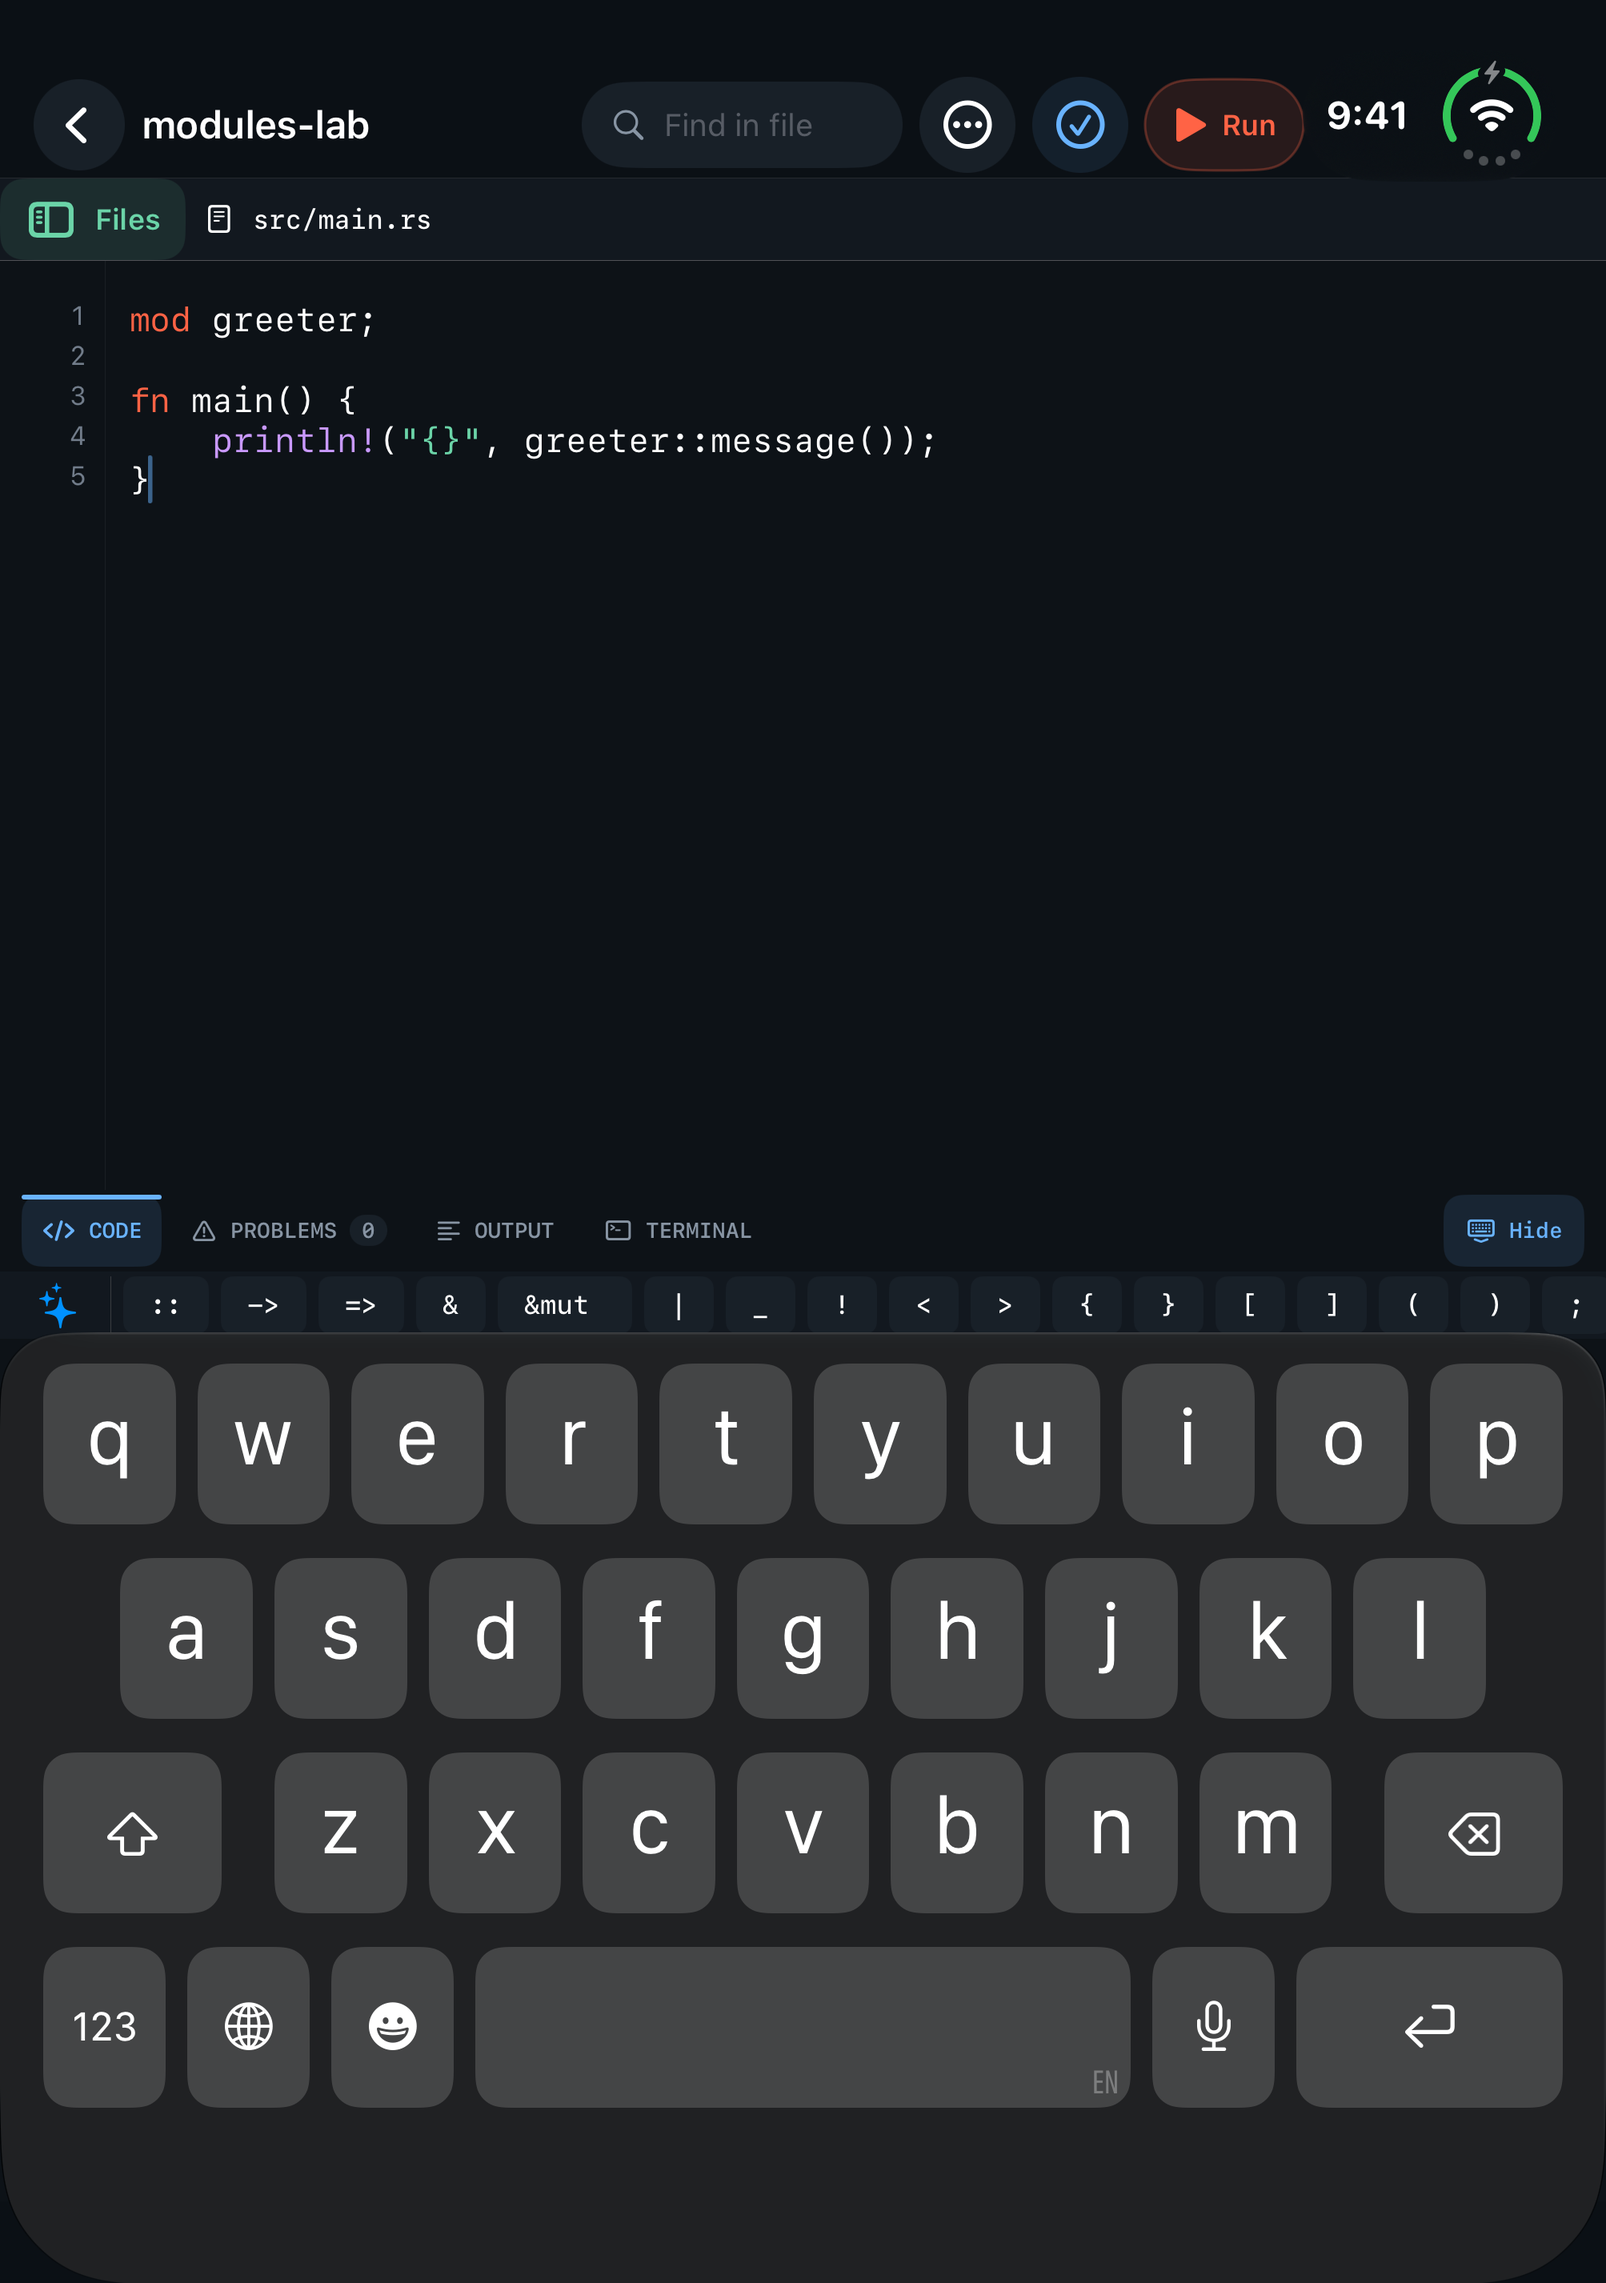
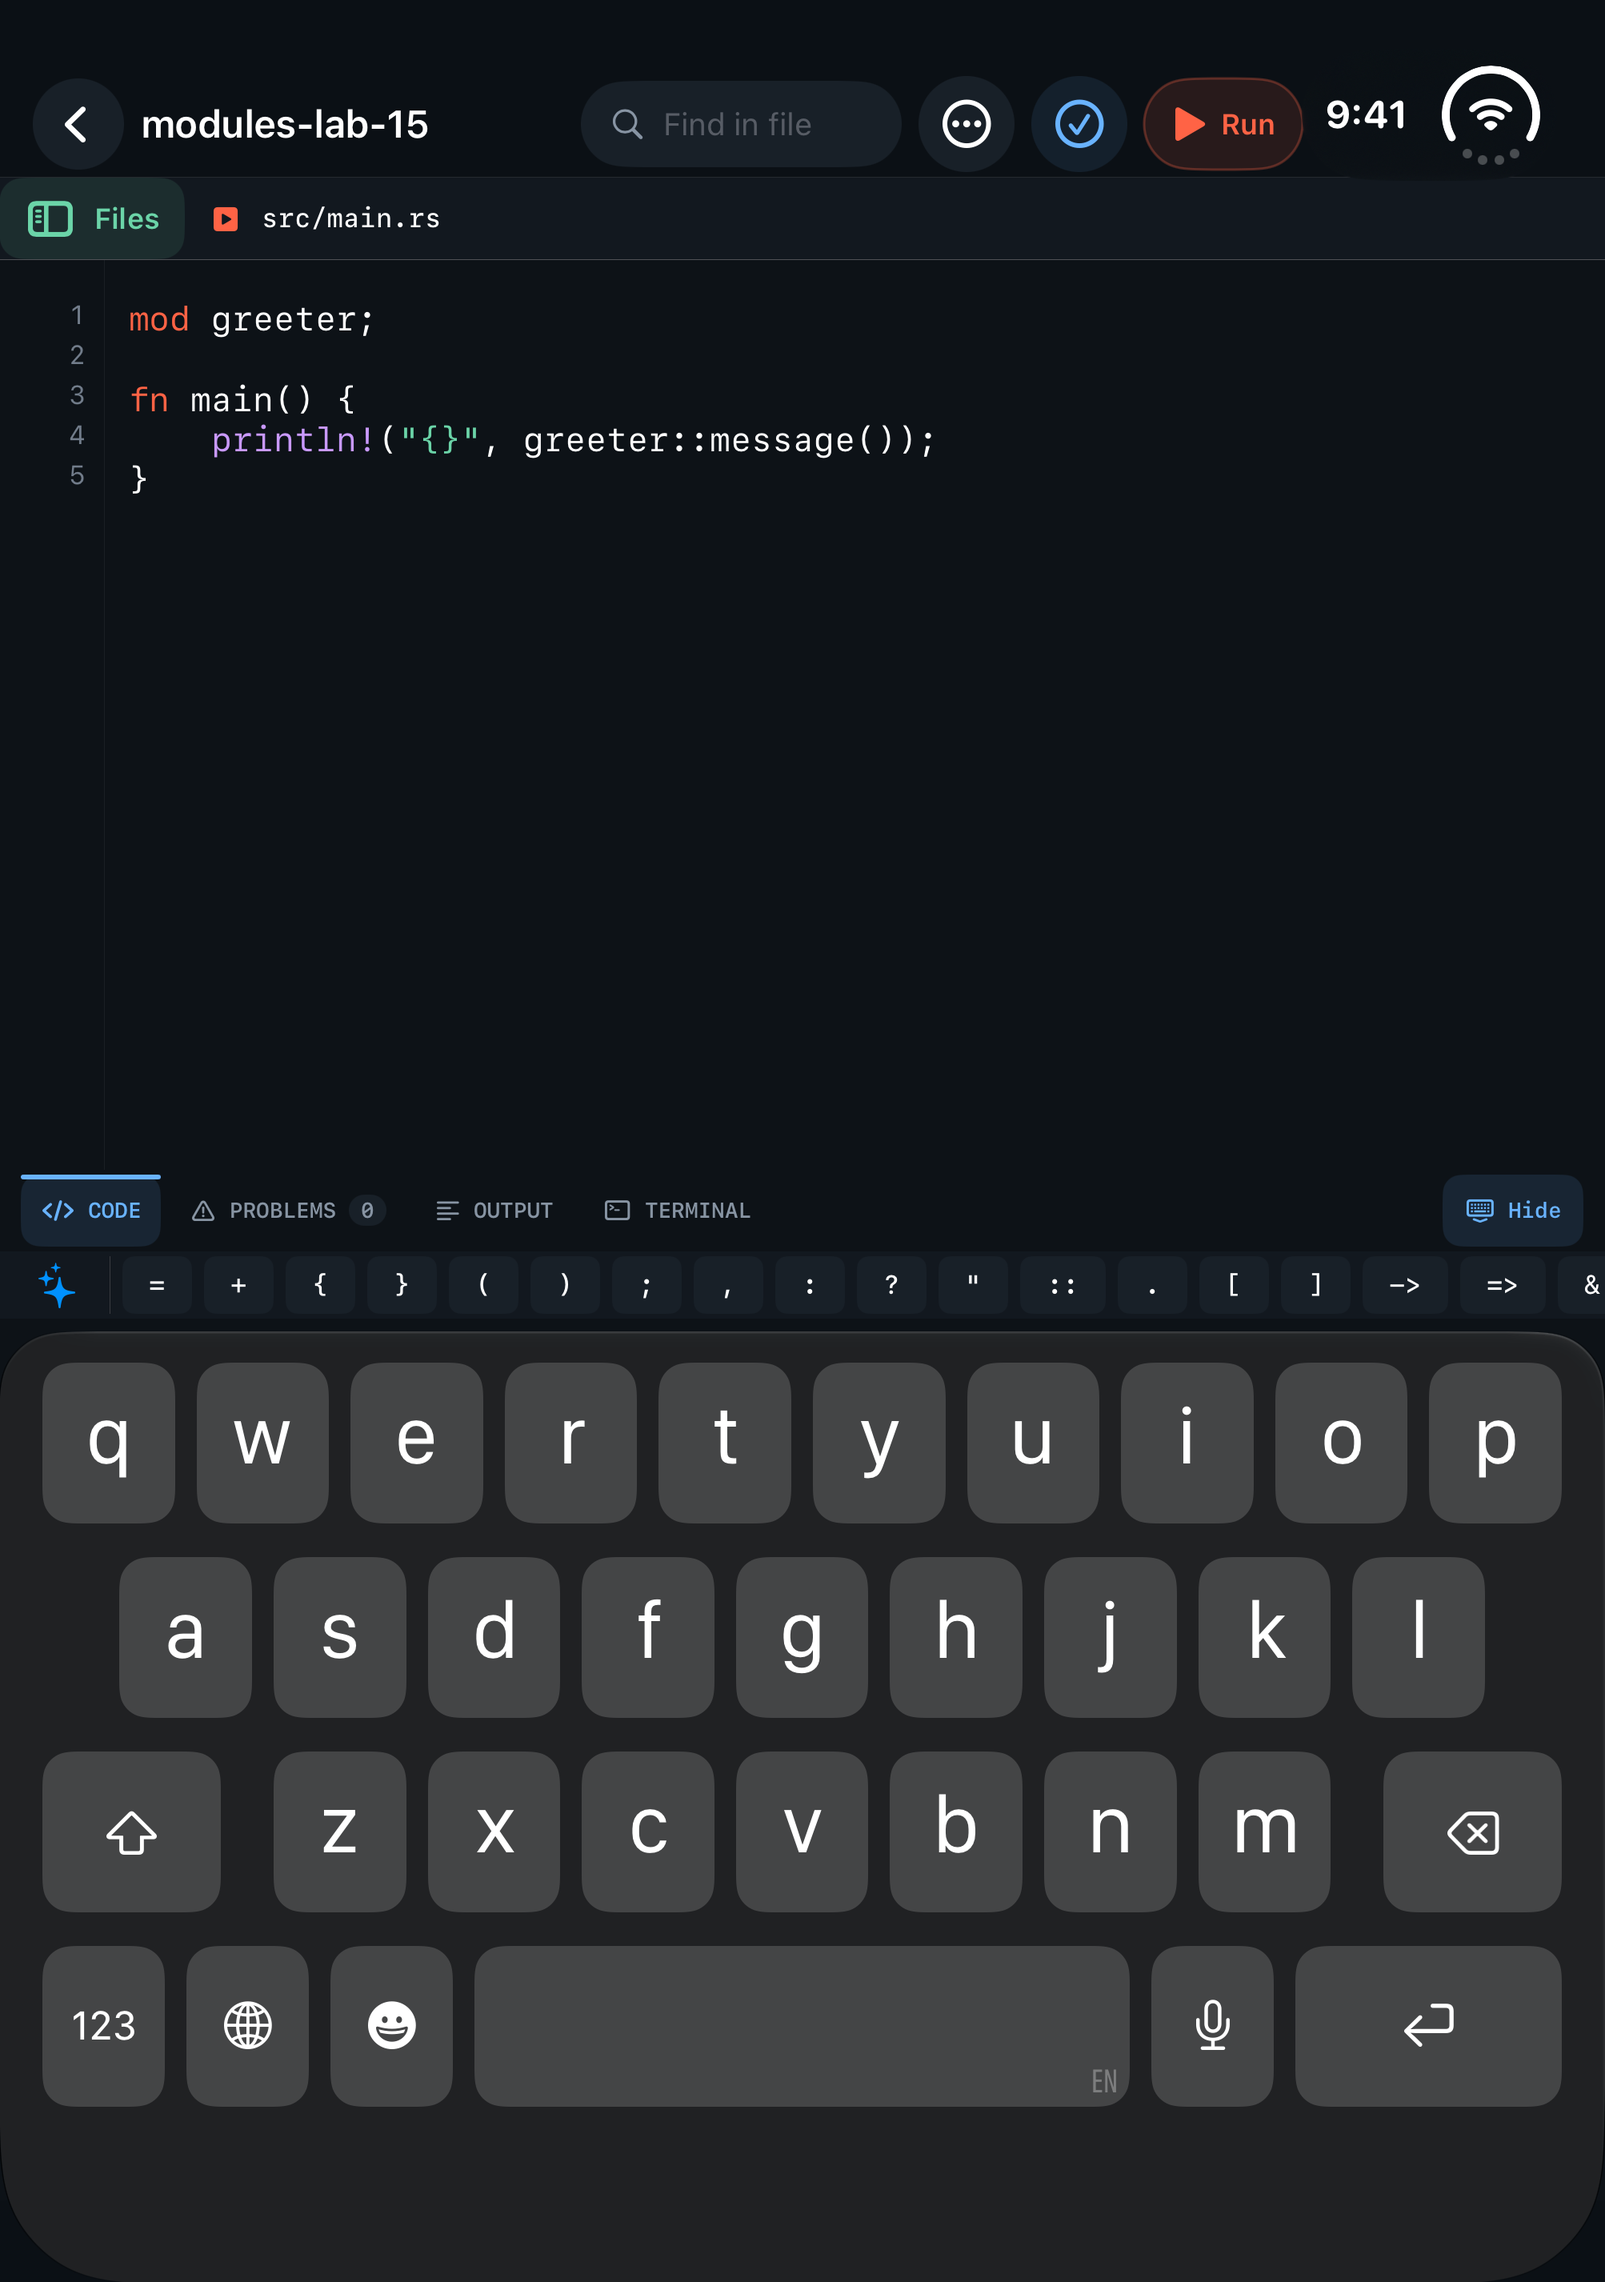
Refresh Duo product captures with verified keyboard and local Run

diff --git a/CrabrixScreenshotTests/ReleaseScreenshotTests.swift b/CrabrixScreenshotTests/ReleaseScreenshotTests.swift
@@ -115,10 +115,35 @@ final class ReleaseScreenshotTests: XCTestCase {
 
     func testDuoDisplayScreenshots() throws {
         continueAfterFailure = false
+        defer { XCUIDevice.shared.orientation = .portrait }
         for (orientation, name) in [(UIDeviceOrientation.portrait, "portrait"), (.landscapeLeft, "landscape")] {
             XCUIDevice.shared.orientation = orientation
             for tab in ["code", "output"] {
-                launch(["--crabrix-auto-dock=\(tab)"])
+                var arguments = ["--crabrix-auto-multifile", "--crabrix-auto-dock=\(tab)"]
+                if tab == "output" { arguments += ["--crabrix-auto-run", "--crabrix-auto-output"] }
+                launch(arguments)
+                if tab == "code" {
+                    let editor = app.textViews["Source code editor"]
+                    XCTAssertTrue(editor.waitForExistence(timeout: 15))
+                    editor.tap()
+                    XCTAssertTrue(app.keyboards.firstMatch.waitForExistence(timeout: 15))
+                    let typingTip = app.buttons["Continue"]
+                    if typingTip.waitForExistence(timeout: 2) { typingTip.tap() }
+                    // Tap the actual software keyboard, rather than injecting
+                    // text through the hardware-keyboard automation path.
+                    let space = app.keyboards.keys["space"]
+                    XCTAssertTrue(space.waitForExistence(timeout: 10))
+                    space.tap()
+                    Thread.sleep(forTimeInterval: 1)
+                } else {
+                    let output = app.staticTexts.containing(NSPredicate(
+                        format: "label CONTAINS %@", "hello from two Rust files"
+                    )).firstMatch
+                    XCTAssertTrue(output.waitForExistence(timeout: 120), "Capture completed local Run output, not an empty panel")
+                    let celebration = app.buttons["Nice"]
+                    if celebration.waitForExistence(timeout: 2) { celebration.tap() }
+                    XCTAssertFalse(celebration.exists, "Do not publish a celebration-covered output frame")
+                }
                 let application = XCTAttachment(screenshot: app.screenshot())
                 application.name = "duo-\(name)-\(tab)-application"
                 application.lifetime = .keepAlways

diff --git a/site/app/guide/page.tsx b/site/app/guide/page.tsx
@@ -265,7 +265,7 @@ export default function GuidePage() {
       <section id="devices"><h2>8. Work on iPhone, iPad and Duo</h2>
         <p>On iPhone, Files opens the project navigator while the editor stays focused on the selected source. On iPad, the wider workspace can show the file sidebar alongside the editor and in-file search. Search finds text within the open file; it does not change which project is compiled.</p>
         <p>Duo adapts the workspace to the fold and posture. The compact header includes the project name and search. Code, Problems, Output and Terminal share the established tab region, with editor helper keys directly above the keyboard. Use the keyboard-dismiss control in the tab strip when it is available for that posture.</p>
-        <div className="guide-screenshots"><Screenshot name="duo-laptop" alt="Duo Rust workspace with search, code tabs, helper keys and keyboard" caption="Earlier Duo qualification capture: project name and search at the top; code tabs, helpers and keyboard in the fold-aware workspace." width={2007} height={2853} /><Screenshot name="ipad-build" alt="iPad Crabrix workspace with file navigation and in-file search" caption="iPad: a wider workspace with navigation and search above the code." width={2064} height={2752} /></div>
+        <div className="guide-screenshots"><Screenshot name="duo-laptop" alt="Duo Rust workspace with search, code tabs, helper keys and keyboard" caption="5 November · Duo Simulator, Crabrix 1.1.5: project name and search at the top; code tabs, helpers and keyboard in the fold-aware workspace." width={2007} height={2853} /><Screenshot name="ipad-build" alt="iPad Crabrix workspace with file navigation and in-file search" caption="iPad: a wider workspace with navigation and search above the code." width={2064} height={2752} /></div>
       </section>
       <section id="limits"><h2>9. Know what the compiler can actually run</h2>
         <p>The bundled compiler targets <code>wasm32-wasip1</code>, executed by an interpreter. The app does not turn downloaded source into an unsigned native iOS executable. A dependency being pure Rust is helpful, but does not by itself prove compatibility: it may still require operating-system facilities, compiler features or host tools absent from this target.</p>

diff --git a/site/components/screenshot-galleries.tsx b/site/components/screenshot-galleries.tsx
@@ -14,8 +14,8 @@ const groups: { device: string; images: Capture[] }[] = [
     { name: "iphone-cyberpunk-settings", caption: "Choose a theme and protect your workspace" },
   ] },
   { device: "iPhone Duo", images: [
-    { name: "duo-laptop", caption: "Unfolded Rust workspace · earlier qualification capture" },
-    { name: "duo-output", caption: "Local Run output · earlier qualification capture" },
+    { name: "duo-laptop", caption: "Write Rust with the fold-aware workspace and keyboard" },
+    { name: "duo-output", caption: "Read the result of a completed local Rust Run" },
   ] },
   { device: "iPad", images: [
     { name: "ipad-build", caption: "Work with files, search and the Rust editor" },
@@ -60,7 +60,7 @@ function DeviceGallery({ device, images }: typeof groups[number]) {
 export function ScreenshotGalleries() {
   return <section id="screens"><div className="site-shell">
     <h2>On the device</h2>
-    <p className="section-lede">Choose a course, keep it offline, then turn an idea into a project. Browse each device gallery or open a screenshot at full size. iPhone and iPad captures show Crabrix 1.1.5; Duo retains earlier qualification captures.</p>
+    <p className="section-lede">Choose a course, keep it offline, then turn an idea into a project. Browse each device gallery or open a screenshot at full size. iPhone, iPad and Duo captures show the Crabrix 1.1.5 source build.</p>
     <div className="device-galleries">{groups.map(group => <DeviceGallery key={group.device} {...group} />)}</div>
   </div></section>;
 }

diff --git a/docs/site-captures-refresh-2026-11-05.md b/docs/site-captures-refresh-2026-11-05.md
@@ -94,3 +94,14 @@ images on phone/tablet/desktop layouts, with no overflow or console errors.
 The account backup and unchanged persistent mount were verified; the independent
 remote MCP container was not restarted. The previous website is retained for
 rollback. See `docs/site-release-2026-11-05-captures.json` for serving identity.
+
+
+## Duo follow-up after Mac unlock
+
+The retained Duo captures described above are superseded by two fresh 1.1.5
+source/Simulator frames. SDK 27.1 enables the existing Duo compile condition.
+The official Device Hub selected the isolated clone’s partially open posture.
+The screenshot test now requires actual software-keyboard input and completed
+local Run output, and dismisses onboarding/celebration through their controls.
+Full frames are retained with lossless orientation correction; no UI was drawn.
+See `docs/site-duo-captures-2026-11-05-assets.json` for provenance and hashes.
